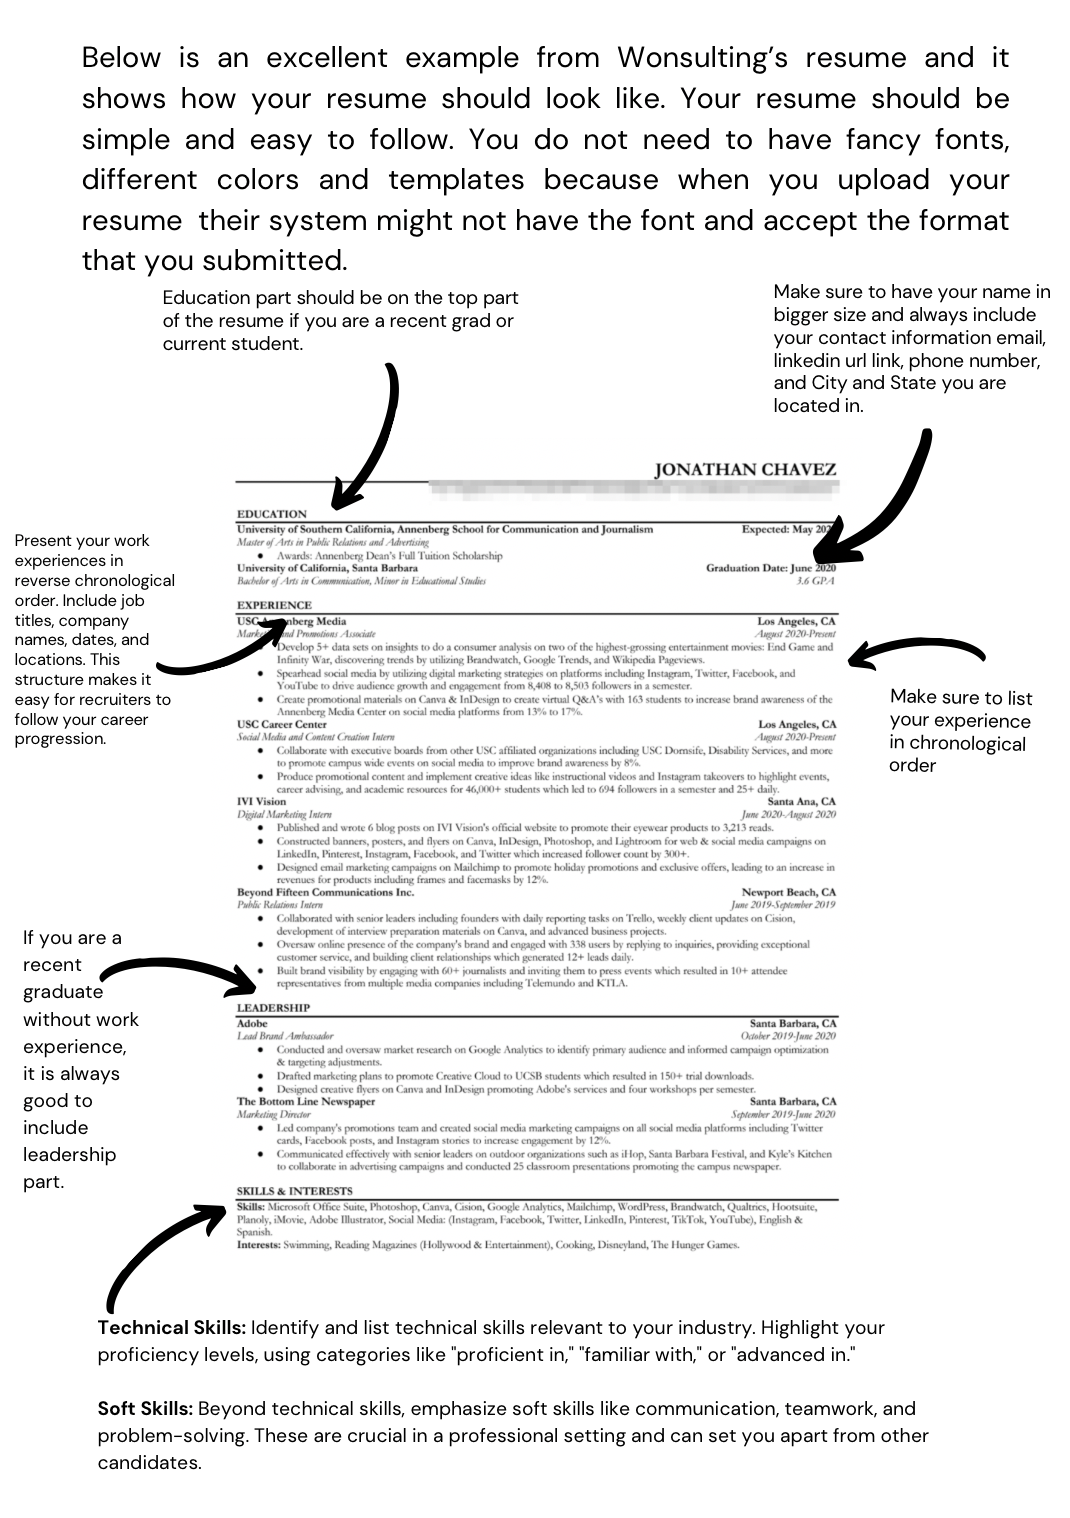
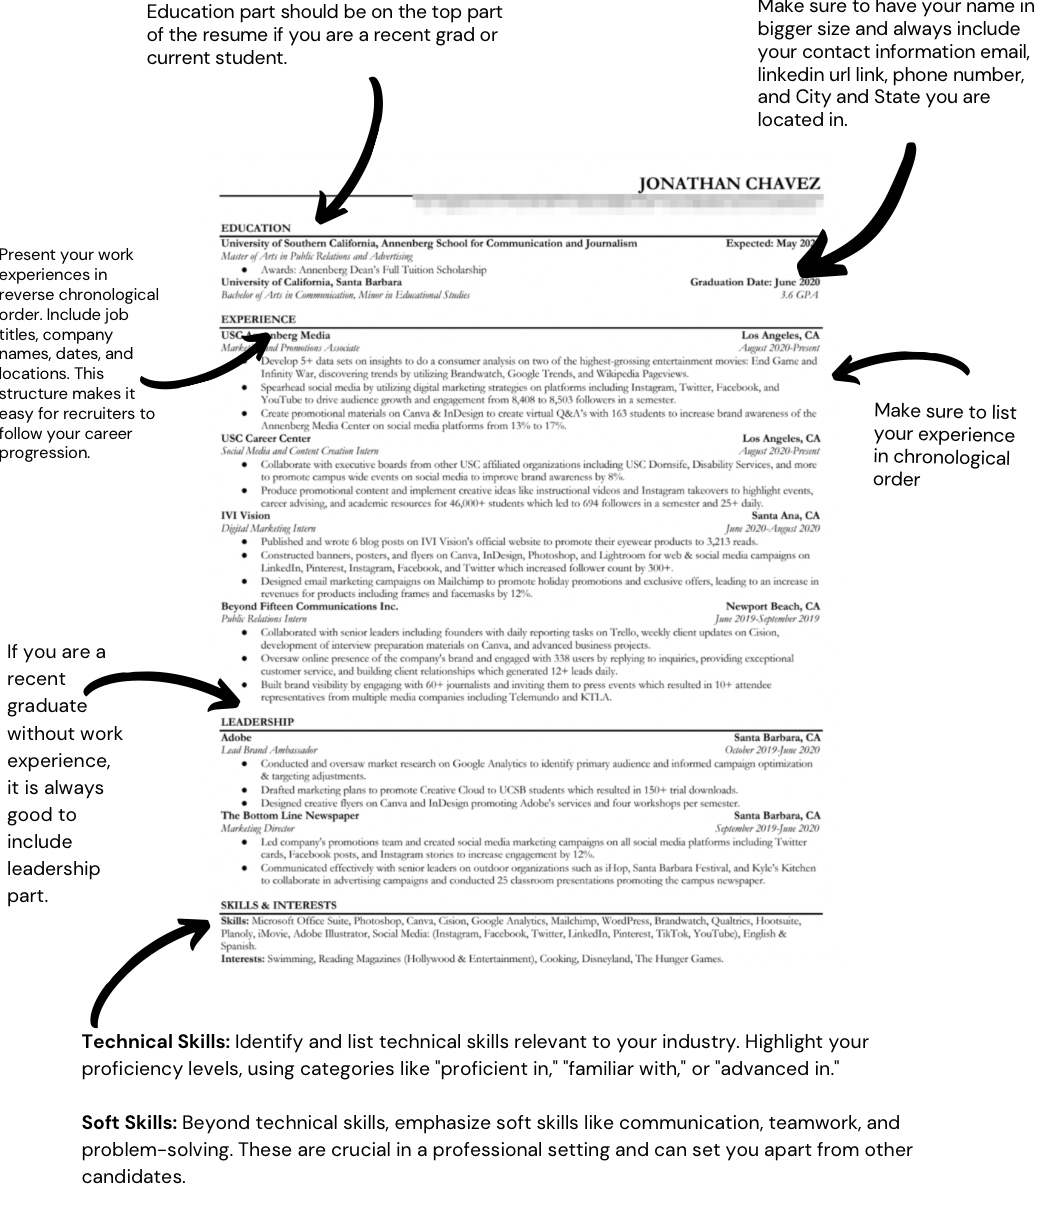
Added newsletter subscribe input to footer and tweaked resume blog style

Changed region(s): [[0.0, 0.0, 0.9837, 0.9809]]

diff --git a/src/pages/Blogs/IndividualBlogs/ResumeBlog/ResumeBlog.jsx b/src/pages/Blogs/IndividualBlogs/ResumeBlog/ResumeBlog.jsx
@@ -8,62 +8,64 @@ import "./ResumeBlog.css";
 export default function ResumeBlog() {
     return (
         <div className={"resumeBlogContainer"}>
-            <h1>
-                Resume 101
-            </h1>
-            <img src={resumeBlog1} width={"85%"}/>
-            <h3>
-                Understanding the Basics
-            </h3>
-            <p>
-                As the first impression is always important, your resume is the first
-                impression you can make at the companies when applying for a job.
-                According to the Ladders study, on average, recruiters spend 7.4
-                seconds on the initial screening of a resume. Trying to build the
-                resume that works in the U.S' job market can be complicated for
-                international students. In this blog, you will find what is required
-                when building the resume. Let's dive in now.
-            </p>
-            <p>
-                Simple and easy to read layout is crucial when building the resume.
-                The Ladders study's "gaze tracking" technology showed that
-                recruiters spent almost 80% of their resume review time on
-                following parts which are name, current title/company, previous
-                title/company, previous position start and end dates, current
-                position start and end dates, and education.
-            </p>
-            <p>
-                Below is an excellent example from Wonsulting's resume and it
-                shows how your resume should look like. Your resume should be
-                simple and easy to follow. You do not need to have fancy fonts,
-                different colors and templates because when you upload your
-                resume their system might not have the font and accept the format
-                that you submitted.
-            </p>
-            <img src={resumeBlog2} width={"50%"}/>
-            <h3>
-                How to tailor your resume to the job you are applying for
-            </h3>
-            <p>
-                Creating just one excellent resume and using it for countless job
-                applications might not yield the positive results you expect.
-                Consequently, many professionals customize their resumes based
-                on the job description, paying special attention to the skills,
-                experience, and keywords specified. Make sure to change your
-                resume's words to the most mentioned keywords in the job
-                description.
-            </p>
-            <img src={resumeBlog3} width={"20%"}/>
-            <p>
-            One of the biggest reasons why you need to tailor your resume is
-            over 98.8% of Fortune 500 companies, 66% of large companies and
-            35% of small organizations use Applicant Tracking System (ATS)
-            software. ATS identifies specific keywords and assesses a
-            candidate's skills and strengths. The ATS typically reviews your
-            resume before it reaches a recruiter, Therefore, it is important to
-            ensure that your resume's language aligns with the job description
-            to highlight your skills effectively.
-            </p>
+            <div className="resumeBlogWrapper">
+                <h1>
+                    Resume 101
+                </h1>
+                <img src={resumeBlog1} width={"55%"}/>
+                <h3>
+                    Understanding the Basics
+                </h3>
+                <p>
+                    As the first impression is always important, your resume is the first
+                    impression you can make at the companies when applying for a job.
+                    According to the Ladders study, on average, recruiters spend 7.4
+                    seconds on the initial screening of a resume. Trying to build the
+                    resume that works in the U.S' job market can be complicated for
+                    international students. In this blog, you will find what is required
+                    when building the resume. Let's dive in now.
+                </p>
+                <p>
+                    Simple and easy to read layout is crucial when building the resume.
+                    The Ladders study's "gaze tracking" technology showed that
+                    recruiters spent almost 80% of their resume review time on
+                    following parts which are name, current title/company, previous
+                    title/company, previous position start and end dates, current
+                    position start and end dates, and education.
+                </p>
+                <p>
+                    Below is an excellent example from Wonsulting's resume and it
+                    shows how your resume should look like. Your resume should be
+                    simple and easy to follow. You do not need to have fancy fonts,
+                    different colors and templates because when you upload your
+                    resume their system might not have the font and accept the format
+                    that you submitted.
+                </p>
+                <img src={resumeBlog2} width={"50%"}/>
+                <h3>
+                    How to tailor your resume to the job you are applying for
+                </h3>
+                <p>
+                    Creating just one excellent resume and using it for countless job
+                    applications might not yield the positive results you expect.
+                    Consequently, many professionals customize their resumes based
+                    on the job description, paying special attention to the skills,
+                    experience, and keywords specified. Make sure to change your
+                    resume's words to the most mentioned keywords in the job
+                    description.
+                </p>
+                <img src={resumeBlog3} width={"20%"}/>
+                <p>
+                One of the biggest reasons why you need to tailor your resume is
+                over 98.8% of Fortune 500 companies, 66% of large companies and
+                35% of small organizations use Applicant Tracking System (ATS)
+                software. ATS identifies specific keywords and assesses a
+                candidate's skills and strengths. The ATS typically reviews your
+                resume before it reaches a recruiter, Therefore, it is important to
+                ensure that your resume's language aligns with the job description
+                to highlight your skills effectively.
+                </p>
+            </div>
         </div>
     );
 };

diff --git a/src/pages/Home/Home.jsx b/src/pages/Home/Home.jsx
@@ -19,24 +19,19 @@ export default function Home() {
 		</Link>
 		,
 		<div className={"carouselSlide"}>
-			<img src={blogs} height={350} width={350} alt={"Slide 2"} />
-			<p>Blog 2</p>
+			<img src={blogs} height={375} width={350} alt={"Slide 2"} />
 		</div>,
 		<div className={"carouselSlide"}>
-			<img src="https://placekitten.com/403/300" height={350} alt="Slide 3" />
-			<p>Meow</p>
+			<img src="https://placekitten.com/403/300" height={375} alt="Slide 3" />
 		</div>,
 		<div className={"carouselSlide"}>
-			<img src="https://placekitten.com/404/300" height={350} alt="Slide 3" />
-			<p>Meow</p>
+			<img src="https://placekitten.com/404/300" height={375} alt="Slide 3" />
 		</div>,
 		<div className={"carouselSlide"}>
-			<img src="https://placekitten.com/405/300" height={350} alt="Slide 3" />
-			<p>Meow</p>
+			<img src="https://placekitten.com/405/300" height={375} alt="Slide 3" />
 		</div>,
 		<div className={"carouselSlide"}>
-			<img src="https://placekitten.com/406/300" height={350} alt="Slide 3" />
-			<p>Meow</p>
+			<img src="https://placekitten.com/406/300" height={375} alt="Slide 3" />
 		</div>
 	  ];
 

diff --git a/src/components/NewsletterSubscribe/NewsletterSubscribe.jsx b/src/components/NewsletterSubscribe/NewsletterSubscribe.jsx
@@ -1,0 +1,36 @@
+import React from "react";
+
+import { useState } from "react";
+
+import "./NewsletterSubscribe.css";
+
+export default function NewsletterSubscribe() {
+    const [email, setEmail] = useState("");
+
+    const handleEmailChange = (e) => {
+        setEmail(e.target.value);
+    };
+
+    const handleSubscribe = () => {
+        // Change to database when moving to production
+        if (email === "") {
+            alert("Please enter a valid email");
+            return;
+        }
+        localStorage.setItem("subscribedEmail", email);
+        alert("Subscribed with email: " + email);
+    };
+
+    return (
+        <div className="subscriptionContainer">
+            <input
+            className={"emailInput"}
+            type="email"
+            placeholder="Enter your email to receive our newsletters!"
+            value={email}
+            onChange={handleEmailChange}
+            />
+            <button onClick={handleSubscribe} className={"subscribeButton"}>Subscribe</button>
+        </div>
+    );
+}

diff --git a/src/pages/Blogs/IndividualBlogs/ResumeBlog/ResumeBlog.css b/src/pages/Blogs/IndividualBlogs/ResumeBlog/ResumeBlog.css
@@ -9,6 +9,18 @@
 	background-position: center;
 }
 
+.resumeBlogWrapper {
+	display: flex;
+	flex-direction: column;
+	background: #FFFFFF;
+	justify-content: space-evenly;
+	align-items: center;
+	width: 75%;
+	margin-bottom: 5rem;
+	margin-top: 4rem;
+	border-radius: 5rem;
+}
+
 .resumeBlogContainer h1 {
 	padding: 1rem;
 	font-weight: bold;
@@ -22,6 +34,6 @@
 
 .resumeBlogContainer p {
 	padding-top: 2rem;
-	padding-left: 5rem;
-	padding-right: 5rem;
+	padding-left: 20rem;
+	padding-right: 20rem;
 }

diff --git a/src/components/NewsletterSubscribe/NewsletterSubscribe.css b/src/components/NewsletterSubscribe/NewsletterSubscribe.css
@@ -1,0 +1,20 @@
+.subscriptionContainer {
+    padding-top: 0.35rem;
+    padding-left: 1rem;
+    padding-right: 1rem;
+}
+
+.emailInput {
+    width: 25rem;
+    border-radius: 1rem;
+    text-align: center;
+    border: 2px solid #7eb67c;
+}
+
+.subscribeButton {
+    text-align: center;
+    border-radius: 1rem;
+    background: #7eb67c;
+    border: 2px solid #7eb67c;
+    color: #FFFFFF;
+}

diff --git a/src/components/Footer/Footer.jsx b/src/components/Footer/Footer.jsx
@@ -1,3 +1,4 @@
+import NewsletterSubscribe from "../NewsletterSubscribe/NewsletterSubscribe.jsx";
 import SocialsBar from "../SocialsBar/SocialsBar.jsx";
 import React from "react";
 
@@ -7,6 +8,7 @@ export default function Footer() {
     return (
         <div className={"footerContainer"}>
             <SocialsBar isInHeader={false}/>
+            <NewsletterSubscribe />
 		</div>
     );
 };

diff --git a/src/components/Footer/Footer.css b/src/components/Footer/Footer.css
@@ -1,4 +1,5 @@
 .footerContainer {
     display: flex;
 	flex-direction: row-reverse;
+    justify-content: space-between;
 }
